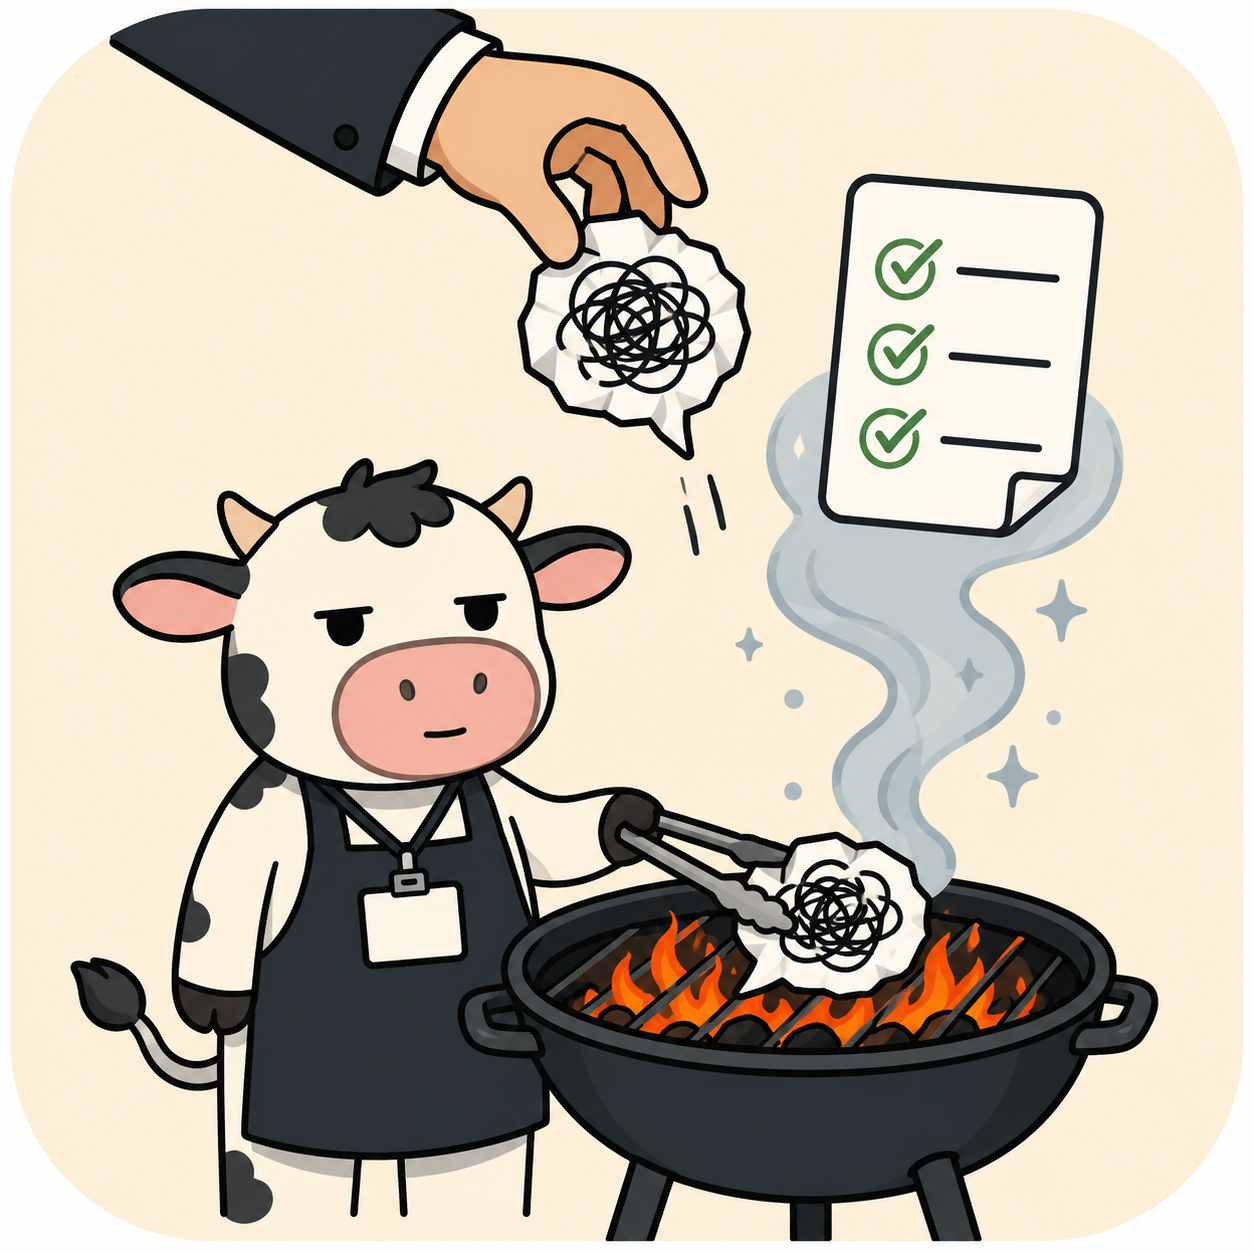
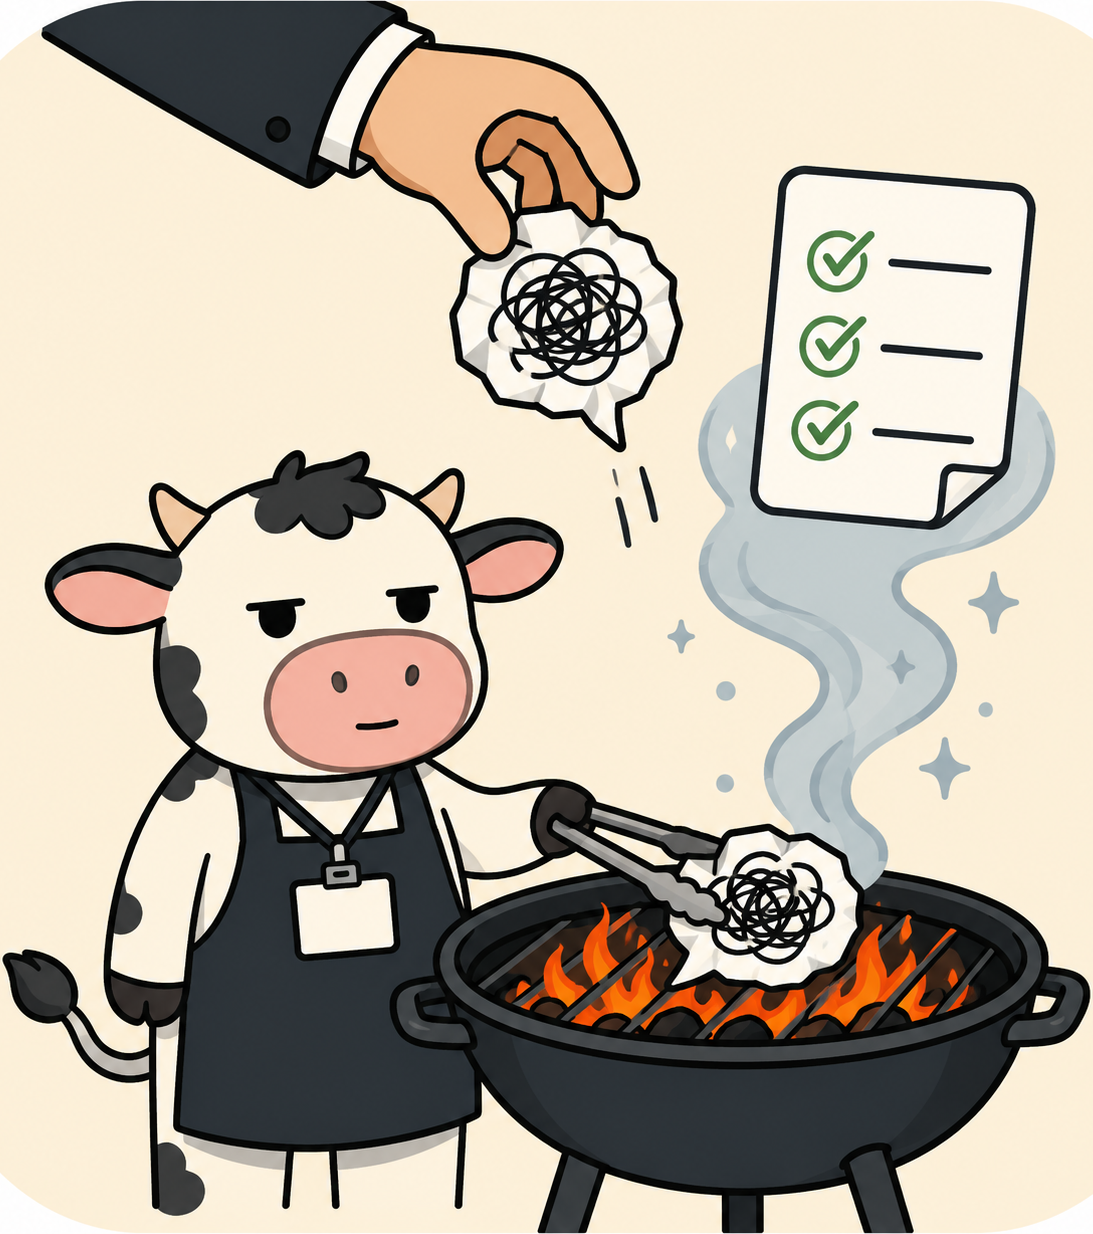
图标裁掉白边并缩小，移至 README 标题上方；标题去掉烤肉 emoji

diff --git a/README.md b/README.md
@@ -1,8 +1,8 @@
-# grill-boss 🍖
-
 <p align="center">
-  <img src="grill-boss-icon.png" width="360" alt="领导丢下一团乱麻，牛马把它放上烤架，烤成一张带对勾的清单">
+  <img src="grill-boss-icon.png" width="160" alt="领导丢下一团乱麻，牛马把它放上烤架，烤成一张带对勾的清单">
 </p>
+
+# grill-boss
 
 **grill-boss 是一个 agent skill ：把领导的一句话需求，拷问成可执行、可落地的方案。**
 